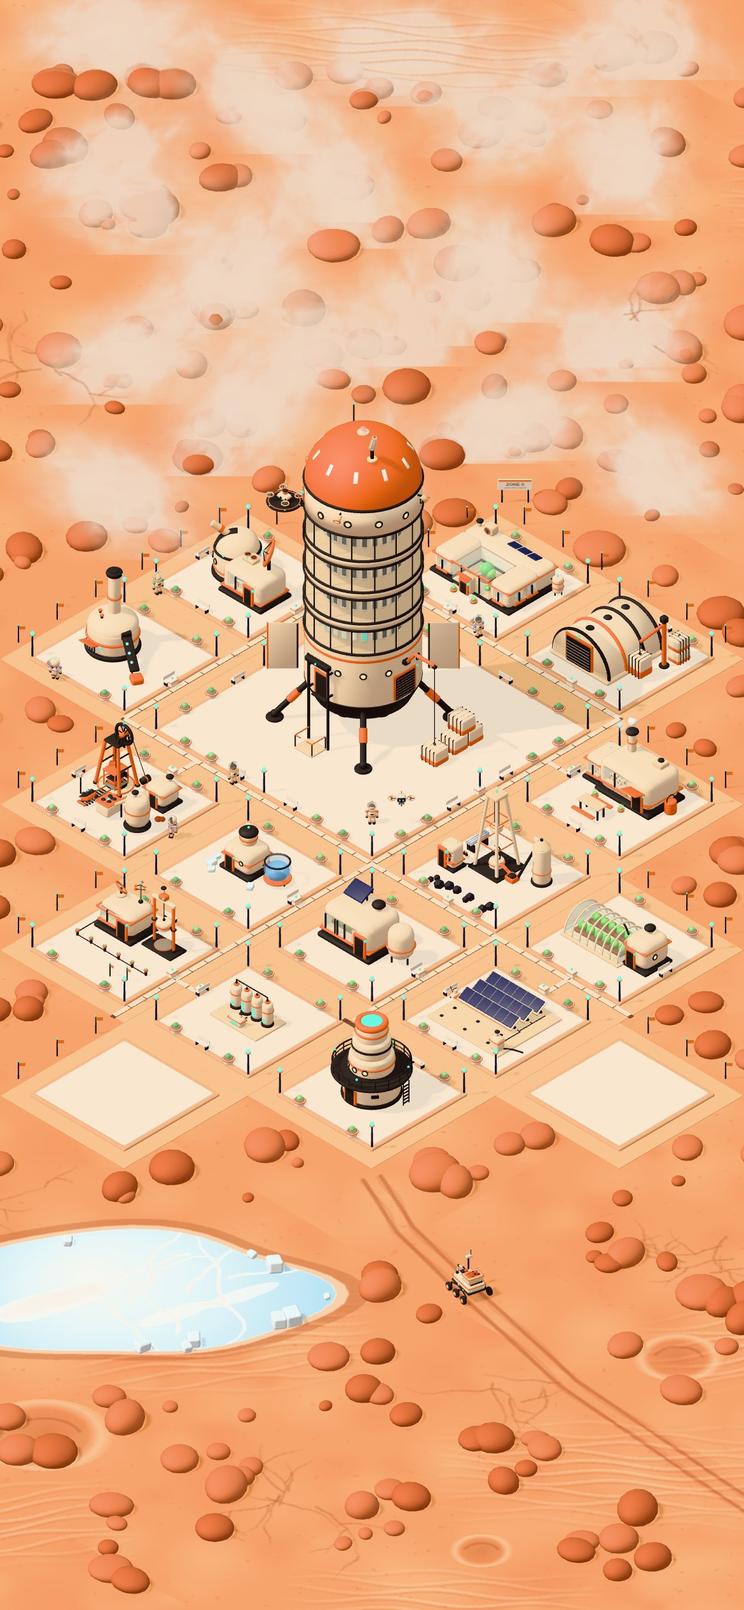
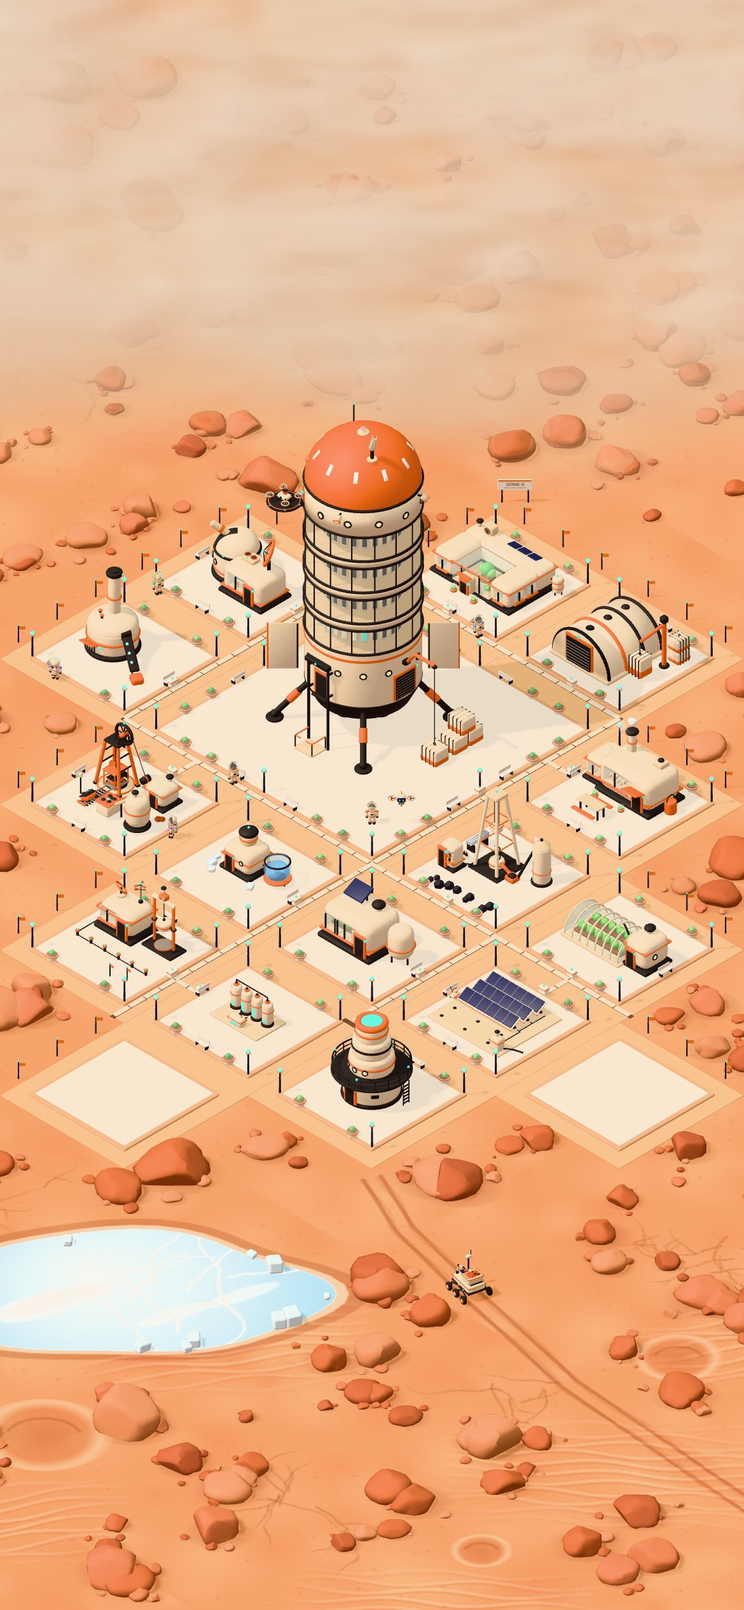
Redo the dust over the closed zone, the stones and the canyon on the map mockup, as Joro asked
Claude-Session: https://claude.ai/code/session_01HQgMkgf4Jd5MamqcQMFrx3

diff --git a/mockup/src/map-ideas.js b/mockup/src/map-ideas.js
@@ -6,9 +6,14 @@
 //   lines   a covered service channel along the streets for the water and the power, with a box at every building
 //   rover   the collector robot on its way back, and the tracks it has worn into the plain
 //   zone    the edge of the closed zone: stakes with flags and a sign
+//   dust    the dust over the closed zone as a blanket of soft layers that lies on the ground (instead of flat pictures)
+//   rocks   the stones of the map as lumpy boulders with flat faces, dust on top, pebbles round the big ones
+// canyon is the land itself, shaped: a floor that winds, walls in steps, the head, the mouth that opens to the plain.
+// canyon0 is the first try, made of stacked blocks; it stays only to be compared with.
 // The random numbers here are their own, so nothing of the map itself moves.
 import * as THREE from 'three';
 import { RoundedBoxGeometry } from 'three/addons/geometries/RoundedBoxGeometry.js';
+import { mergeVertices } from 'three/addons/utils/BufferGeometryUtils.js';
 
 const R2 = Math.SQRT1_2;
 // the canyon's own directions: a across it (to the right of the screen), t along it (towards the camera)
@@ -19,10 +24,40 @@ const box = (w, h, d, mat, r = 0.3, seg = 3) => { const m = new THREE.Mesh(new R
 
 const FLOOR = 52;   // half the width of the canyon floor, metres
 const HEAD = -100;  // where the round head of the canyon begins
-
-// ---------- the canyon: cliffs in layers on both sides and round its head, the land above them ----------
 const TOP = 23;     // how high the land above the canyon lies
-function canyon({ scene, flat, sun }) {
+
+// smooth noise between 0 and 1, and a few octaves of it
+function noise2(seed) {
+  const r = rng(seed), perm = Array.from({ length: 256 }, (_, i) => i), val = new Float32Array(256).map(() => r());
+  for (let i = 255; i > 0; i--) { const k = r() * (i + 1) | 0; [perm[i], perm[k]] = [perm[k], perm[i]]; }
+  const h = (i, j) => val[perm[(perm[i & 255] + j) & 255]];
+  return (x, y) => { const xi = Math.floor(x), yi = Math.floor(y), xf = x - xi, yf = y - yi, u = xf * xf * (3 - 2 * xf), v = yf * yf * (3 - 2 * yf), a = h(xi, yi), b = h(xi + 1, yi), c = h(xi, yi + 1), d = h(xi + 1, yi + 1); return a + (b - a) * u + (c - a) * v + (a - b - c + d) * u * v; };
+}
+const fbm = (n, x, y, oct = 4) => { let s = 0, a = 0.5, f = 1, w = 0; for (let i = 0; i < oct; i++) { s += a * n(x * f, y * f); w += a; a *= 0.5; f *= 2; } return s / w; };
+const clamp = (v, lo = 0, hi = 1) => Math.max(lo, Math.min(hi, v));
+const smooth = v => { v = clamp(v); return v * v * (3 - 2 * v); };
+
+// The canyon: how wide its floor is on each side at a place along it, and how far outside the floor a point lies.
+// straight = the first try (walls 52 m from the middle); otherwise the floor winds, the head is round, the mouth opens.
+function canyonShape(straight) {
+  const n = noise2(17), n2 = noise2(23), RH = 62;
+  const halfW = straight ? () => FLOOR : (t, side) => {
+    let w = 53 + 4.5 * Math.sin(t * 0.031 + (side < 0 ? 0.6 : 2.4)) + 8 * (fbm(n, t * 0.02 + (side < 0 ? 10 : 50), 1.7, 3) - 0.5);
+    if (t > 96) w += (t - 96) * 0.95;            // the mouth: the walls fall back and the canyon opens to the plain
+    return w;
+  };
+  const outside = (a, t) => {
+    const side = a < 0 ? -1 : 1; let d;
+    if (t >= HEAD) d = Math.abs(a) - halfW(t, side);
+    else { const w = halfW(HEAD, side); d = (Math.hypot(Math.abs(a) / w, (HEAD - t) / RH) - 1) * Math.min(w, RH); }
+    return straight ? d : d + (fbm(n2, a * 0.045, t * 0.045, 3) - 0.5) * 9;    // spurs and gullies
+  };
+  return { halfW, outside, n };
+}
+
+
+// ---------- the first try at the canyon (canyon0): cliffs of stacked blocks; kept only to compare with ----------
+function canyonBlocks({ scene, flat, sun }) {
   const r = rng(11), layers = [flat(0xcf7a52), flat(0xe39a6a), flat(0xb9643f), flat(0xd98a5e)], top = flat(0xeaa878);
   let n = 0;
   // a stretch of cliff whose foot is at (a, t), facing (na, nt); its layers end at heights of their own, its top is the land
@@ -77,7 +112,7 @@ function groundSheet({ scene }, draw) {
   m.rotation.x = -Math.PI / 2; m.receiveShadow = true; m.renderOrder = 1;
   const g = new THREE.Group(); g.add(m); g.rotation.y = Math.PI / 4; g.position.y = 0.015; scene.add(g);
 }
-function drawGround(x, r) {
+function drawGround(x, r, shape) {
   // wind ripples: short waves in fields that fade at their edges
   for (const [a0, t0, w, l] of [[-14, 84, 30, 16], [22, 104, 34, 18], [-34, 112, 24, 14], [6, 124, 30, 12], [-46, -18, 10, 30], [47, 14, 9, 34], [46, 66, 10, 26], [-44, -84, 16, 22], [40, -96, 18, 20], [2, -118, 34, 14], [34, 84, 20, 14]]) {
     const turn = (r() - 0.5) * 0.5;
@@ -110,7 +145,7 @@ function drawGround(x, r) {
     x.strokeStyle = 'rgba(150,80,52,.35)'; x.lineWidth = 3; x.beginPath(); x.ellipse(cx, cy + R * 0.06, R * 0.66, R * 0.56, 0, 3.5, 6.0); x.stroke();
   }
   // darker, stony ground under the walls
-  for (let i = 0; i < 2600; i++) { const side = r() < 0.5 ? -1 : 1, a = side * (FLOOR - 8 * r() * r()), t = -130 + r() * 262; x.fillStyle = `rgba(170,92,60,${0.16 + r() * 0.3})`; x.beginPath(); x.ellipse(gx(a), gy(t), 1.5 + r() * 5, 1 + r() * 3, r() * 3, 0, 7); x.fill(); }
+  for (let i = 0; i < 2600; i++) { const side = r() < 0.5 ? -1 : 1, t = -130 + r() * 262, a = side * (shape.halfW(t, side) - 9 * r() * r()); x.fillStyle = `rgba(170,92,60,${0.16 + r() * 0.3})`; x.beginPath(); x.ellipse(gx(a), gy(t), 1.5 + r() * 5, 1 + r() * 3, r() * 3, 0, 7); x.fill(); }
 }
 
 // ---------- the Ice Hollow, at the low end of the canyon ----------
@@ -208,6 +243,156 @@ function zone({ scene, flat, glow, allBlocks, NIGHT }) {
   g.position.set(-24, 0.05, -42.5); g.rotation.y = Math.PI / 4; scene.add(g);
 }
 
+// ---------- the stones: lumpy boulders with flat faces, dust on top, pebbles round the big ones ----------
+// A ball is pushed out and in by noise, then cut by a few planes, which leaves the flat faces a broken rock has; the
+// edges stay soft. The top of every stone is paler (dust lies on it), the underside darker.
+function rockShapes(r) {
+  const shapes = [], n = noise2(61);
+  for (let v = 0; v < 8; v++) {
+    const g = mergeVertices(new THREE.IcosahedronGeometry(1, 3)), p = g.attributes.position, q = new THREE.Vector3();
+    const sx = 0.85 + r() * 0.45, sz = 0.85 + r() * 0.45, sy = 0.55 + r() * 0.32;
+    const cuts = Array.from({ length: 4 + (r() * 4 | 0) }, () => { const c = new THREE.Vector3(r() - 0.5, r() * 0.9 - 0.15, r() - 0.5).normalize(); return [c, 0.6 + r() * 0.28]; });
+    for (let i = 0; i < p.count; i++) {
+      q.fromBufferAttribute(p, i);
+      q.multiplyScalar(1 + 0.42 * (fbm(n, q.x * 1.5 + v * 9 + q.z * 0.8, q.y * 1.5 - q.z * 0.6, 3) - 0.5));
+      for (const [c, d] of cuts) { const over = q.dot(c) - d; if (over > 0) q.addScaledVector(c, -over * 0.93); }
+      q.set(q.x * sx, Math.max(q.y, -0.38) * sy + 0.38 * sy, q.z * sz);
+      p.setXYZ(i, q.x, q.y, q.z);
+    }
+    g.computeVertexNormals();
+    const nor = g.attributes.normal, col = new Float32Array(p.count * 3);
+    for (let i = 0; i < p.count; i++) {
+      const up = nor.getY(i), shade = 0.74 + 0.34 * smooth((up + 0.25) / 1.1), dusty = smooth((up - 0.5) / 0.4) * 0.55;
+      col[i * 3] = shade * (1 + dusty * 0.3); col[i * 3 + 1] = shade * (1 + dusty * 0.42); col[i * 3 + 2] = shade * (1 + dusty * 0.5);
+    }
+    g.setAttribute('color', new THREE.BufferAttribute(col, 3));
+    shapes.push(g);
+  }
+  return shapes;
+}
+function betterRocks({ scene }, shape, atFoot) {
+  const r = rng(73), shapes = rockShapes(r), tones = [0xc8744e, 0xb5613d, 0xd68a5f, 0xa9583a].map(c => new THREE.MeshStandardMaterial({ color: c, roughness: 0.92, vertexColors: true }));
+  const placed = [];
+  const put = (x, z, k) => {
+    const m = new THREE.Mesh(shapes[r() * shapes.length | 0], tones[r() * tones.length | 0]);
+    m.scale.set(k * (0.92 + r() * 0.2), k * (0.85 + r() * 0.35), k * (0.92 + r() * 0.2)); m.position.set(x, -0.07 * k, z); m.rotation.y = r() * 6.3;
+    m.castShadow = m.receiveShadow = true; m.userData.idea = true; scene.add(m); placed.push([...AT(x, z), k]);
+  };
+  const around = (x, z, k) => { for (let i = 0, c = k > 1.05 ? 2 + (r() * 3 | 0) : r() < 0.45 ? 1 : 0; i < c; i++) { const q = r() * 6.3, d = k * (1.05 + r() * 0.9); put(x + Math.cos(q) * d, z + Math.sin(q) * d, k * (0.13 + r() * 0.2)); } };
+  // every stone of the map gives its place to a new one; about a quarter are left out, so the ground breathes
+  for (const m of [...scene.children]) {
+    if (!m.isMesh || m.geometry.type !== 'IcosahedronGeometry' || m.userData.idea || !m.visible) continue;
+    m.visible = false;
+    if (r() < 0.26) continue;
+    const k = m.scale.x * (0.8 + r() * 0.55);
+    put(m.position.x, m.position.z, k); around(m.position.x, m.position.z, k);
+  }
+  // fallen stones under the walls of the canyon
+  if (atFoot) for (let i = 0; i < 150; i++) {
+    const side = r() < 0.5 ? -1 : 1, t = HEAD + r() * 190, [x, z] = P(side * (shape.halfW(t, side) - 2 - r() * r() * 9), t), k = 0.35 + r() * r() * 1.9;
+    put(x, z, k); if (k > 1.2) around(x, z, k);
+  }
+  return placed;
+}
+function drawRockShade(x, placed) {
+  for (const [a, t, k] of placed) {
+    const cx = gx(a + k * 0.25), cy = gy(t + k * 0.12), R = k * 1.7 * PXM, g = x.createRadialGradient(cx, cy, R * 0.25, cx, cy, R);
+    g.addColorStop(0, 'rgba(150,80,52,.34)'); g.addColorStop(1, 'rgba(150,80,52,0)');
+    x.fillStyle = g; x.beginPath(); x.ellipse(cx, cy, R, R * 0.72, 0, 0, 7); x.fill();
+  }
+}
+
+// ---------- the canyon as land: one surface shaped by the canyon's outline ----------
+// The floor is the map's own ground. Outside it the land climbs to the plain above in three terraces: a steep face of
+// rock, then a wide ledge with dust on it, three times. Each face is a layer of rock in its own colour with thin lines
+// of strata; the colour is painted by height, so the layers stay level and sharp whatever the shape of the wall. Spurs
+// and gullies break the walls, the head is round, and past the colony the walls fall back: the canyon opens to the
+// plain where the robot goes. Beside the mine the layers hold what it digs: dark iron ore low down, pale quartz above.
+const RISE = 26, STEPS = 3;
+function strataTexture() {
+  const H = 1024, c = document.createElement('canvas'); c.width = 2; c.height = H;
+  const x = c.getContext('2d'), S = TOP / STEPS, yOf = h => (1 - (h + 1) / (TOP + 2)) * H, r = rng(47);
+  const band = (col, h0, h1, colour) => { x.fillStyle = colour; x.fillRect(col, yOf(h1), 1, yOf(h0) - yOf(h1) + 1); };
+  for (const col of [0, 1]) {
+    band(col, -1, TOP + 1, '#e89a66');
+    ['#c8744e', '#b6603c', '#d0865c'].forEach((rock, k) => {
+      band(col, k * S + 0.45, (k + 1) * S - 0.45, rock);
+      for (let h = k * S + 0.9; h < (k + 1) * S - 0.7; h += 0.9 + r() * 1.3) band(col, h, h + 0.16 + r() * 0.2, r() < 0.5 ? 'rgba(90,40,20,.2)' : 'rgba(255,214,170,.28)');
+    });
+    if (col === 1) { band(col, 2.5, 4.5, '#8a4a36'); band(col, 3.3, 3.55, '#6f3a2a'); band(col, S + 2.2, S + 3.7, '#f1e6ff'); band(col, S + 2.8, S + 2.95, '#d9c8f5'); }
+    for (let k = 1; k <= STEPS; k++) band(col, k * S - 0.45, k * S + 0.45, k === STEPS ? '#eaa878' : '#e6a274');   // the ledges: dust lies on them
+    band(col, TOP + 0.45, TOP + 1, '#eaa878');
+  }
+  const tex = new THREE.CanvasTexture(c); tex.colorSpace = THREE.SRGBColorSpace; tex.generateMipmaps = false; tex.minFilter = tex.magFilter = THREE.LinearFilter;
+  return tex;
+}
+function canyonLand({ scene, sun }, shape) {
+  const n = shape.n, n3 = noise2(31), S = TOP / STEPS, STEP = 1.25, A0 = -170, A1 = 170, T0 = -310, T1 = 268;
+  const nx = Math.round((A1 - A0) / STEP) + 1, nz = Math.round((T1 - T0) / STEP) + 1;
+  const pos = new Float32Array(nx * nz * 3), uv = new Float32Array(nx * nz * 2), hs = new Float32Array(nx * nz);
+  for (let j = 0; j < nz; j++) for (let i = 0; i < nx; i++) {
+    const a = A0 + i * STEP, t = T0 + j * STEP, d = shape.outside(a, t), q = j * nx + i; let h = -0.6;
+    if (d > 0) {
+      const k = STEPS * clamp(d / RISE), fl = Math.floor(k);
+      h = (fl + smooth((k - fl) / 0.3)) * S;                                    // a steep face, then a ledge
+      h += (fbm(n3, a * 0.16, t * 0.16, 2) - 0.5) * 0.7 * smooth(d / 2.5);         // nothing is quite flat
+      if (d > RISE) h = TOP + (fbm(n, a * 0.03 + 40, t * 0.03, 3) - 0.5) * 2.4 * smooth((d - RISE) / 22);
+    }
+    const [x, z] = P(a, t); pos[q * 3] = x; pos[q * 3 + 1] = h; pos[q * 3 + 2] = z; hs[q] = h;
+    // the colour comes from the height (the layers waver a little); by the mine, from the column with the ore
+    uv[q * 2] = a < 0 ? smooth((-a - 30) / 12) * smooth((t + 32) / 8) * smooth((40 - t) / 8) : 0;
+    uv[q * 2 + 1] = d > RISE - 1 ? 0.998 : clamp((h + (fbm(n3, a * 0.07 + 9, t * 0.07, 2) - 0.5) * 0.7 + 1) / (TOP + 2), 0.002, 0.998);   // the plain above is all dust
+  }
+  const idx = [];
+  for (let j = 0; j + 1 < nz; j++) for (let i = 0; i + 1 < nx; i++) {
+    const p = j * nx + i, q = p + nx;
+    if (hs[p] < 0 && hs[p + 1] < 0 && hs[q] < 0 && hs[q + 1] < 0) continue;      // the floor is the map's own ground
+    idx.push(p, q, p + 1, p + 1, q, q + 1);
+  }
+  const g = new THREE.BufferGeometry();
+  g.setAttribute('position', new THREE.BufferAttribute(pos, 3)); g.setAttribute('uv', new THREE.BufferAttribute(uv, 2)); g.setIndex(idx); g.computeVertexNormals();
+  const m = new THREE.Mesh(g, new THREE.MeshStandardMaterial({ map: strataTexture(), roughness: 0.95 }));
+  m.castShadow = m.receiveShadow = true; scene.add(m);
+  // more ground beyond the edge of the map, and the sun's shadow has to see the walls too
+  const far = new THREE.Mesh(new THREE.PlaneGeometry(1600, 1600), new THREE.MeshStandardMaterial({ color: 0xee9f66, roughness: 1 })); far.rotation.x = -Math.PI / 2; far.position.y = -0.03; far.receiveShadow = true; scene.add(far);
+  Object.assign(sun.shadow.camera, { left: -190, right: 190, top: 190, bottom: -190, far: 520 }); sun.shadow.camera.updateProjectionMatrix();
+}
+
+// ---------- the dust over the closed zone: a blanket of soft layers that lies on the ground ----------
+// Each layer is a sheet at its own height with holes of its own; seen from the map's camera the upper ones slide over the
+// lower ones, so the dust has depth, stones stand up out of it, and nothing is cut by the ground as the flat pictures were.
+function dustBlanket({ scene, NIGHT }, shape) {
+  const W = 2 * FLOOR + 40, T0 = -176, T1 = -30, L = T1 - T0, PX = 4, w = W * PX, h = L * PX;
+  // Three thin layers of haze near the ground, then four of billows with real gaps between them. Under each layer of
+  // billows lies its own shade, pushed away from the sun, so the billows look lit from the left like everything else.
+  //   height, strength, gaps (0 = none), colour, seed, pushed by (across, along)
+  const HAZE = [246, 208, 172], LIT = [[252, 226, 198], [254, 234, 210], [255, 240, 222], [255, 246, 232]], SHADE = [218, 164, 126];
+  const layers = [[0.4, 0.3, 0, HAZE, 0, 0, 0], [1.1, 0.28, 0, HAZE, 1, 0, 0], [2.0, 0.26, 0, [249, 216, 184], 2, 0, 0]];
+  [[3.2, 0.52, 0.47], [4.9, 0.5, 0.5], [6.8, 0.46, 0.53], [8.8, 0.38, 0.57]].forEach(([y, st, gaps], k) => {
+    layers.push([y - 0.3, st * 0.78, gaps, SHADE, 3 + k, 2.8, 1.5], [y, st * 1.12, gaps, LIT[k], 3 + k, 0, 0]);
+  });
+  layers.forEach(([y, strength, gaps, col, seed, da, dt], order) => {
+    const n = noise2(100 + seed * 13), c = document.createElement('canvas'); c.width = w; c.height = h;
+    const x = c.getContext('2d'), img = x.createImageData(w, h), d = img.data;
+    for (let j = 0; j < h; j++) for (let i = 0; i < w; i++) {
+      const a = i / PX - W / 2 - da, t = T0 + j / PX - dt, side = a < 0 ? -1 : 1;
+      // where the dust begins: a little beyond the last street, the higher layers further back, the edge wavy
+      const front = -47 - seed * 2.2 + (fbm(n, a * 0.05 + 3, 1.3, 2) - 0.5) * 16;
+      const dens = smooth((front - t) / 15) * smooth((shape.halfW(Math.max(t, HEAD), side) + 5 - Math.abs(a)) / 10) * smooth((t - T0) / 12);
+      if (dens <= 0.002) continue;
+      const f = fbm(n, a * 0.04 + seed * 7.3, t * 0.056 - seed * 3.1, 4);
+      const wisp = clamp((f - 0.42 + dens * 0.95) * 3.6), body = gaps ? clamp((f - gaps) * 5.2 + 0.32) : 0.6 + 0.4 * clamp((f - 0.4) * 3 + 0.5);
+      const o = (j * w + i) * 4;
+      d[o] = col[0]; d[o + 1] = col[1]; d[o + 2] = col[2]; d[o + 3] = 255 * strength * Math.pow(dens, 0.7) * wisp * body;
+    }
+    x.putImageData(img, 0, 0);
+    const tex = new THREE.CanvasTexture(c); tex.colorSpace = THREE.SRGBColorSpace;
+    const m = new THREE.Mesh(new THREE.PlaneGeometry(W, L), new THREE.MeshBasicMaterial({ map: tex, transparent: true, depthWrite: false, color: NIGHT ? 0x56596e : 0xffffff }));
+    m.rotation.x = -Math.PI / 2; m.renderOrder = 4 + order;
+    const g = new THREE.Group(), [px, pz] = P(0, (T0 + T1) / 2); g.add(m); g.rotation.y = Math.PI / 4; g.position.set(px, y, pz); scene.add(g);
+  });
+}
+
 // the map's own stones that would lie on the ice or on the robot's tracks are put away
 function clearStones(scene, ice, tracks) {
   for (const m of scene.children) {
@@ -220,11 +405,20 @@ function clearStones(scene, ice, tracks) {
 
 export async function addIdeas(ctx, on) {
   const has = k => on.has('all') || on.has(k), r = rng(29);
-  if (has('canyon')) canyon(ctx);
-  if (has('ground') || has('ice') || has('rover')) groundSheet(ctx, x => { if (has('ground')) drawGround(x, r); if (has('rover')) drawTracks(x, rng(5)); if (has('ice')) drawIce(x, rng(3)); });
+  const shape = canyonShape(!has('canyon'));
+  if (on.has('canyon0')) canyonBlocks(ctx);
+  if (has('canyon')) canyonLand(ctx, shape);
+  clearStones(ctx.scene, has('ice'), has('rover'));
+  const placed = has('rocks') ? betterRocks(ctx, shape, has('canyon')) : [];
+  if (has('ground') || has('ice') || has('rover') || has('rocks')) groundSheet(ctx, x => {
+    if (has('ground')) drawGround(x, r, shape);
+    if (has('rocks')) drawRockShade(x, placed);
+    if (has('rover')) drawTracks(x, rng(5));
+    if (has('ice')) drawIce(x, rng(3));
+  });
+  if (has('dust')) dustBlanket(ctx, shape);
   if (has('ice')) iceBlocks(ctx, rng(7));
   if (has('lines')) lines(ctx);
   if (has('rover')) await rover(ctx);
   if (has('zone')) zone(ctx);
-  clearStones(ctx.scene, has('ice'), has('rover'));
 }

diff --git a/mockup/map-ideas.html b/mockup/map-ideas.html
@@ -2,8 +2,8 @@
 <html lang="bg"><head><meta charset="utf-8"><meta name="viewport" content="width=390">
 <title>Zerks-X6: идеи за картата</title>
 <!-- The sheet of the ideas for the map (src/map-ideas.js, 14.11.2026): each idea as it is now and as proposed.
-     node shot-ideas.js writes the frames to out/, then node shot-sheet.js map-ideas p1 (and p2) saves the two pages
-     to out/map-ideas-p1.jpg and -p2.jpg (screens/map-ideas-1.jpg, -2.jpg). -->
+     node shot-ideas.js writes the frames to out/, then node shot-sheet.js map-ideas p1 (p2, p3) saves the three pages
+     to out/map-ideas-p1.jpg … -p3.jpg (screens/map-ideas-1.jpg … -3.jpg). -->
 <style>
   @font-face { font-family: Nunito; font-weight: 800; src: url(fonts/nunito-cyrillic-800-normal.woff2) format('woff2'); unicode-range: U+0400-045F; }
   @font-face { font-family: Nunito; font-weight: 800; src: url(fonts/nunito-latin-800-normal.woff2) format('woff2'); unicode-range: U+0000-00FF, U+2013-2014, U+201C-201E; }
@@ -24,25 +24,27 @@
   .foot { font-size: 11px; color: #9a7a62; padding: 10px 12px 14px; line-height: 1.3; }
 </style></head>
 <body>
-<h1>Картата: седем предложения</h1>
+<h1>Картата: девет предложения</h1>
 <div class="lead">Всяко е показано както е сега и както го предлагам, на картата на ниво 10. Нищо не е решено: кажи кои номера остават.</div>
 <div id="list"></div>
 <div class="foot">Всяко предложение се включва отделно (mockup/map.html?ideas=…). В играта в Unity нищо не е сменено.</div>
 <script>
 // [title, text, view, how far down the frame the picture looks (0 top … 1 bottom)]
 const IDEAS = [
-  ['Каньонът', 'Колонията е на дъното на каньон, но сега картата е равнина. Скали на пластове от двете страни и в горния му край, а над тях земята горе. Виждат се, когато отдалечиш или плъзнеш картата.', 'canyon', 0.42],
-  ['Скалата до мината', 'В пластовете до мината личи какво копае тя: светъл пласт кварц и тъмен пласт желязна руда. Сутрин лявата стена хвърля сянка върху дъното.', 'wall', 0.5],
+  ['Каньонът', 'Колонията е на дъното на каньон, но сега картата е равнина. Земята около нея се качва на три тераси до равнината горе; дъното лъкатуши, горният край е заоблен, а надолу стените се раздалечават и каньонът излиза към равнината. Вижда се, когато отдалечиш или плъзнеш картата.', 'canyon', 0.42],
+  ['Скалата до мината', 'Всяка тераса е пласт скала със свой цвят и тънки линии. До мината в пластовете личи какво копае тя: тъмна желязна руда долу и светъл кварц над нея.', 'wall', 0.5],
   ['Земята', 'Голата земя вече не е еднаква: вълнички от вятъра, сухи пукнатини, малки кратери и по-тъмна, камениста ивица под скалите.', 'ground', 0.55],
   ['Ледената падина', 'Ледът, от който помпата тегли вода, се вижда: замръзнало езерце в ниския край на каньона, със скреж по брега. На ниво 13 на брега му идва глиненият изкоп.', 'ice', 0.52],
   ['Сервизният канал', 'Водата и токът вървят в покрит канал покрай улиците, с кутия със светлинка при всяка сграда. Така се вижда как помпата, панелите и батериите стигат до сградите.', 'lines', 0.45],
   ['Роботът и следите му', 'Роботът събирач се връща по своя път, а колелата му са оставили следи от базата към равнината, където търси.', 'rover', 0.5],
-  ['Границата на затворената зона', 'По ръба на построеното има колчета с оранжеви флагчета и табела коя зона следва и как се отваря. Прахът над зоната остава.', 'zone', 0.5],
+  ['Границата на затворената зона', 'По ръба на построеното има колчета с оранжеви флагчета и табела коя зона следва и как се отваря.', 'zone', 0.5],
+  ['Прахът над затворената зона', 'Сега е от плоски картинки, които земята реже с права линия. Вместо тях: одеяло от меки слоеве, което лежи върху земята, с кълба и сянка откъм слънцето; камъните се подават от него.', 'dust', 0.3],
+  ['Камъните', 'Вместо гладки топки: ръбести канари с плоски страни, по-светли отгоре, където лежи прахът, с дребни камъчета около големите и лека сянка в основата.', 'rocks', 0.55],
 ];
 const FRAME = 844 / 390;   // a frame is this many times taller than wide
-const PAGE = location.hash === '#p2' ? [4, 7] : location.hash === '#p1' ? [0, 4] : [0, 7];
-if (PAGE[0]) { document.querySelector('h1').textContent = 'Картата: предложенията 5–7'; document.querySelector('.lead').remove(); }
-else if (PAGE[1] < 7) document.querySelector('.foot').remove();
+const PAGE = location.hash === '#p3' ? [6, 9] : location.hash === '#p2' ? [3, 6] : location.hash === '#p1' ? [0, 3] : [0, 9];
+if (PAGE[0]) { document.querySelector('h1').textContent = `Картата: предложенията ${PAGE[0] + 1}–${PAGE[1]}`; document.querySelector('.lead').remove(); }
+if (PAGE[1] < 9) document.querySelector('.foot').remove();
 document.getElementById('list').innerHTML = IDEAS.map(([t, p, v, y], i) => {
   if (i < PAGE[0] || i >= PAGE[1]) return '';
   const w = 183, h = w * FRAME, top = -(h - 236) * y;

diff --git a/mockup/shot-ideas.js b/mockup/shot-ideas.js
@@ -1,11 +1,13 @@
-// Frames of the ideas for the map (src/map-ideas.js): node shot-ideas.js [night]   (server on 8777) -> out/idea-*.png
+// Frames of the ideas for the map (src/map-ideas.js): node shot-ideas.js [day|night] [only these views, e.g. wall,zone]
+// (server on 8777) -> out/idea-*.png
 // Each view is shot twice, without the ideas and with them.
 const { chromium } = require('playwright');
 const path = require('path');
 // name, [view in metres across the screen, x, z], which ideas
 const VIEWS = [
-  ['whole', [68, 0, 0], 'all'], ['canyon', [150, -6, -6], 'all'], ['wall', [52, -30, 30], 'canyon,ground'], ['ground', [40, 81, 53], 'ground'],
-  ['ice', [46, 34, 68], 'ice'], ['lines', [30, 12, 10], 'lines'], ['rover', [34, 56, 52], 'rover'], ['zone', [22, -27, -41], 'zone'], ['head', [90, -70, -70], 'all'],
+  ['whole', [68, 0, 0], 'all'], ['canyon', [170, -6, -6], 'all'], ['wall', [60, -36, 36], 'canyon,ground,rocks,dust'], ['ground', [40, 81, 53], 'ground'],
+  ['ice', [46, 34, 68], 'ice'], ['lines', [30, 12, 10], 'lines'], ['rover', [34, 56, 52], 'rover'], ['zone', [22, -27, -41], 'zone,dust'], ['head', [100, -70, -70], 'all'],
+  ['dust', [46, -34, -34], 'dust'], ['rocks', [34, 56, 52], 'rocks'],
 ];
 (async () => {
   const night = process.argv[2] === 'night' ? '-night' : '';
@@ -20,7 +22,9 @@ const VIEWS = [
     await page.evaluate(() => { document.getElementById('hud').style.display = 'none'; });
     return (pages[ideas] = page);
   };
+  const only = process.argv[3] ? process.argv[3].split(',') : null;
   for (const [name, aim, ideas] of VIEWS) for (const [tag, set] of [['a', ''], ['b', ideas]]) {
+    if (only && !only.includes(name)) continue;
     const page = await open(set);
     await page.evaluate(a => window.__aim(...a), aim);
     await page.screenshot({ path: path.join(__dirname, 'out', `idea-${name}-${tag}${night}.png`) });

diff --git a/mockup/src/map.js b/mockup/src/map.js
@@ -252,7 +252,8 @@ for (const b of builtBlocks) {
 add(person('Commander'), 2.4, 0.4, 2.4, Math.PI / 4, 1.4).name = 'commander';
 const echo = add(chGlb.echo.clone(true), 4.4, 2.6, 0.6, Math.PI / 4, 2.4); echo.name = 'echo';
 // zone II, which the research opens at level 10, still lies under dust
-for (const b of blocks) if (b.s < -REACH && Math.abs(b.d) <= 2) for (let k = 0; k < 2; k++) dust(b.cx - 4 + rnd() * 8, 2 + rnd() * 3, b.cz - 4 + rnd() * 8, 20 + rnd() * 8, 0xfde6d2, 0.85);
+// (with ?ideas=dust the blanket of map-ideas.js lies there instead; nothing random comes after these, so nothing moves)
+if (!IDEAS.has('dust') && !IDEAS.has('all')) for (const b of blocks) if (b.s < -REACH && Math.abs(b.d) <= 2) for (let k = 0; k < 2; k++) dust(b.cx - 4 + rnd() * 8, 2 + rnd() * 3, b.cz - 4 + rnd() * 8, 20 + rnd() * 8, 0xfde6d2, 0.85);
 
 if (IDEAS.size) await addIdeas({ scene, flat, glow, NIGHT, gltf, sun, blocks: builtBlocks, allBlocks: blocks }, IDEAS);
 

diff --git a/docs/notes.md b/docs/notes.md
@@ -11,7 +11,7 @@
 - **Следваща стъпка:** ниво 26, после останалите нива на глава 3 (до 30), едно по едно. На 12.11.2026 са одобрени ниво 21 „Зеленият пояс“ (почвата я правят лишеите и мъхът по камъка, без нова сграда; ключовите сгради на глава 3 са първата топилня и цехът за мед), ниво 22 „Обшивката“ (корпусът на четири етапа, втората топилня), ниво 23 „Водата се връща“ (пречиствателната станция, преместена от глава 4), ниво 24 „Руда за корпуса“ (мината на ниво 20 и петото място, етап 2 на корпуса) и ниво 25 „Тревата“ (хидросеене и полевата станция с агроном). Кулата идва по-късно в главата. Планът на главите 3–10 (предложение в concept.md) още чака одобрение. Ниво 20 „Корпусът“ е одобрено на 11.11.2026 и с него глава 2 е цялата в levels.md. На 11.11.2026 Жоро мина проверката на логиката и реши: атмосферата по стъпки на нивата 13, 16, 19… (40% точно на ниво 40); нивите и горите на ниво 40, животните в глава 5; спасеният от експедицията заема място в главата; без свободно местене, а университет с размяна; будиш с „Събуди“; кои сгради нямат работно място; панелите са един парцел; подобренията, които отключват нещо ново, искат Ковчега на ниво; нощем −5%; кристалите и луната отпадат; всички домове се печатат; роботът събирач вместо капсулите; ниво 19 „Мед“. Всичко е записано в levels.md, концепцията, хода на играта, визията и предаването и на 11.11.2026 е качено в main и в документите в Claude. Редът: първо всички нива до 100, по глави, после настройваме колко трае играта.
 - **Unity (Саламен, 13.11.2026):** играта ще се прави с Unity 6 на Mac-а на Саламен, с Claude Code там; стъпките са в docs/unity-plan.md (проектът в unity/Zerk-X6/ в същото репо). Жоро го потвърди на 13.11.2026. Проектът е настроен на Mac-а на 13.11.2026 (Unity 6.6, Git LFS, пакетите Pipeline, glTFast и Draco). Същата вечер по молба на Саламен е направена цялата глава 1 в Unity, от кацането до ниво 11 (етапите 1–4 от плана за кода): играе се в Unity на Mac-а, с панел DEV за пробата; какво има и кои числа са предложение е в docs/unity-plan.md („Глава 1 в Unity“). Липсват моделите на хората (прави ги Жоро), звукът и пробата на iPhone (Xcode след обновяването на macOS).
 - **Кодът досега (Саламен, 13.11.2026):** преди Unity бяха направени числата на сградите и нивата 1–25 (docs/balance, баланс 0.1, одобрен от Жоро на 13.11.2026; пробното темпо е ×60, глава 1 за около 18 минути) и етап 1 на three.js ([Zerks-X6 Stage 1](https://claude.ai/artifact/KRF6sLedzZKpDQKucnoWrd), колонията на ниво 10 в изометрично 3D). Етап 1 остава като образец за етап 1 в Unity; числата важат и в Unity.
-- **Видът на играта (Жоро, 14.11.2026):** оправяме го едно по едно, в този ред: космонавтите и ЕХО, менютата, картата и средата, материалите. Космонавтите и ЕХО са решени на 14.11.2026 („А и ЕХО 2“): скафандърът със стъкления шлем и ЕХО с двете перки; моделите за играта са в art/3d/characters (colonist.glb, echo.glb, looks.json) и вече са на картата на ниво 10 в макета. Менютата са нарисувани като предложение в приятелския вид (11 кадъра в mockup/screens, menu-01 … menu-11, от mockup/menus.html) (Жоро още не е казал нищо за тях). За картата и детайлите ѝ има седем предложения, всяко показано „сега / предложение“ (mockup/screens/map-ideas-1 и -2): каньонът, скалата до мината, земята, Ледената падина, сервизният канал, роботът със следите и границата на затворената зона; чакат кои номера избира Жоро. После идват материалите. Моделите и кадрите се правят в облачния чат, а в Unity ги слага чатът на Саламен на Mac-а (какво да смени е в docs/unity-plan.md, „Хората и ЕХО“).
+- **Видът на играта (Жоро, 14.11.2026):** оправяме го едно по едно, в този ред: космонавтите и ЕХО, менютата, картата и средата, материалите. Космонавтите и ЕХО са решени на 14.11.2026 („А и ЕХО 2“): скафандърът със стъкления шлем и ЕХО с двете перки; моделите за играта са в art/3d/characters (colonist.glb, echo.glb, looks.json) и вече са на картата на ниво 10 в макета. Менютата са нарисувани като предложение в приятелския вид (11 кадъра в mockup/screens, menu-01 … menu-11, от mockup/menus.html) (Жоро още не е казал нищо за тях). За картата и детайлите ѝ има девет предложения, всяко показано „сега / предложение“ (mockup/screens/map-ideas-1, -2 и -3): каньонът, скалата до мината, земята, Ледената падина, сервизният канал, роботът със следите, границата на затворената зона, прахът над нея и камъните. Жоро: „Харесва ми“ (14.11.2026), без да казва номера; по негово искане прахът, камъните и каньонът са направени наново. Още са само в макета и се включват отделно; чака се думата му, за да станат постоянни на картата. После идват материалите. Моделите и кадрите се правят в облачния чат, а в Unity ги слага чатът на Саламен на Mac-а (какво да смени е в docs/unity-plan.md, „Хората и ЕХО“).
 - **Как работим (11.11.2026):** при всяко „обнови чат“ и „актуализирай и качи“ Claude първо проверява логиката (levels.md срещу концепцията, хода на играта и решенията) и пита за всяко несъответствие. При всяко качване хронологията на чата се записва в docs/chat-log.md, за да продължи другият чат по същата логика.
 - **Пример за 100 нива:** docs/example/ (07.11.2026, по молба на Пацо): пример за всички глави и нивата 1–100 с колонистите (Word и .md) и таблица за икономиката до ниво 100 (Excel). Само за четене и за идеи; не е решение и не е вписан в levels.md, концепцията или идеите.
 - **Ходът на играта:** [Zerks-X6: ход на играта](https://claude.ai/artifact/UHthtpLjANB3bH1q85vqbP) (версия 1.7): главите 1 и 2 и нивата 21–25 следват docs/levels.md.
@@ -186,6 +186,7 @@
 
 | Дата | Промяна | Статус |
 | --- | --- | --- |
+| 14.11.2026 | Жоро за предложенията за картата: „Харесва ми, сега искам първо да оправим замъглената част, да е по-добре направена, след това камъните да са по-добре и накрая самия каньон да е по-адекватно направен.“ Направено в този ред, в макета (mockup/src/map-ideas.js): 1) прахът над затворената зона вече не е от плоски картинки, които земята режеше с права линия, а одеяло от седем меки слоя на различна височина (три слоя мараня до земята и четири с кълба и пролуки, всеки със сянка откъм слънцето); лежи върху земята, предният му ръб е вълнист и камъните се подават от него; 2) камъните вече не са гладки топки, а ръбести канари с плоски страни (осем форми), по-светли отгоре, където лежи прахът, с дребни камъчета около големите и лека сянка в основата; около четвърт от старите са махнати, за да диша земята; 3) каньонът е направен наново като релеф вместо от наредени блокове: земята около дъното се качва до равнината горе на три тераси (стръмна скала, после широк праг с прах), пластовете са оцветени по височина и остават равни и ясни, дъното лъкатуши, стените имат издатини и улеи, горният край е заоблен, а надолу стените се раздалечават и каньонът излиза към равнината, накъдето водят следите на робота; до мината в пластовете са желязната руда и кварцът. Листът с предложенията вече е в три страници с девет точки (map-ideas-1 … -3; 8 е прахът, 9 са камъните), кадрите map-ideas-all, -canyon и -head са преснимани. Всичко още се включва отделно и не е постоянно на картата; в Unity нищо не е сменено. Не е качено в main | В работа |
 | 14.11.2026 | Жоро: „Сега да променим картата, детайлите и, предложи някакви неща.“ Седем предложения за картата на ниво 10, всяко нарисувано в макета и показано както е сега и както се предлага (mockup/screens/map-ideas-1.jpg и -2.jpg; всички наведнъж в map-ideas-all, -canyon и -head): 1 каньонът (скали на пластове от двете страни и в горния край, земята над тях; виждат се при отдалечаване и плъзгане, защото в обичайния изглед екранът е по-тесен от дъното на каньона); 2 скалата до мината с пласт кварц и пласт желязна руда и сутрешната сянка на стената; 3 земята: вълнички от вятъра, сухи пукнатини, малки кратери, каменлива ивица под скалите; 4 Ледената падина в ниския край на каньона, където на ниво 13 идва глиненият изкоп; 5 покрит сервизен канал за водата и тока покрай улиците с кутия при всяка сграда; 6 роботът събирач на връщане и следите от колелата му; 7 колчета с флагчета и табела по границата на затворената зона. Всяко се включва отделно (mockup/src/map-ideas.js, map.html?ideas=…), така че избраните остават, а другите се махат. Нищо не е решено и нищо не е сменено в Unity. Не е качено в main | В работа |
 | 14.11.2026 | Менютата, второто от вида на играта (Жоро: „менюта, мапа, материали, космонавти, енвайърмент… едно по едно“). Предложение в приятелския вид от макета, 11 кадъра в размер на iPhone (mockup/screens/menu-01-main … menu-11-away, от mockup/menus.html): главният екран с това, което стои над сградите; „Строй“ с трите групи (готово за строеж, по-късно като черни силуети с катинарче и ниво, построено); изборът на място с „Build here“ и ЕХО, който казва защо там; панелът на сграда (какво дава сега и на следващото ниво, какво отключват следващите нива, кой работи и какво копае, подобрението долу); Ковчегът със списъка за следващото ниво; рисърчът с двата слота и клоновете; колонистите с портрети от новия модел, досието и събуждането; целите; връщането в играта. Горе ресурсите са на два реда: карбон, вода, камък и храна, а под тях кварц, желязо, силиций и токът с батерията. Кадрите са в началото на ниво 11, за да има какво да се строи, върху картата на ниво 10; числата са примерни. За тях са направени картинки на сградите и портрети на хората (mockup/ui/thumbs). Не са нарисувани още: картата на зоните, прозорчетата за въздуха, тока и ресурсите, сцената при ново ниво, скицата и настройките. В Unity нищо не е сменено. Чака прегледа на Жоро. Не е качено в main | В работа |
 | 14.11.2026 | Жоро избра: „А и ЕХО 2“. Космонавтите са идея А (стъкленият шлем), ЕХО е идея 2 (двете перки); записано е в решенията и в CLAUDE.md. Довършени са моделите за играта в art/3d/characters: colonist.glb (един модел за Командира и всички колонисти, с отделни ръце и крака; цветът на професията, кожата, косата, прическата и брадата се сменят), echo.glb (тялото, двете перки и двете очи са отделни части) и looks.json с цветовете на професиите и вида на Командира и 15-те назовани колонисти (предложение). Олекотени са: човек около 4 900 триъгълника вместо 12 900, ЕХО 3 900 вместо 9 300; файловете са 42 и 23 KB. Проверени са отпред, отзад, отстрани и отгоре (people.jpg, echo-views.jpg) и са сложени на картата на ниво 10 в макета вместо капсулите: Командирът с ЕХО на парцела на Ковчега и петима колонисти навън; кадрите в mockup/screens са преснимани, с три нови (map-lvl10-commander, -commander-night, -colonist). Какво да се смени в Unity е в docs/unity-plan.md („Хората и ЕХО“); там не е пробвано, защото тук няма Mac. Следват менютата. Не е качено в main | Готово |

diff --git a/mockup/README.md b/mockup/README.md
@@ -23,7 +23,7 @@
 | `map-lvl10-home.jpg`, `map-lvl10-home-night.jpg` | Домът на колонистите на ниво 10 отблизо, денем и нощем: двете крила с по-една стая за двама зад всеки прозорец и стъклената зимна градина между тях |
 | `map-lvl10-ark.jpg`, `map-lvl10-ark-night.jpg` | Ковчегът отблизо, денем и нощем: 100-те пода на четири стъклени етажа (десет отворени, един свети), асансьорът, кранът с контейнерите, радиаторите, балконът с дрона и оранжевият връх |
 | `map-lvl10-commander.jpg`, `map-lvl10-commander-night.jpg`, `map-lvl10-colonist.jpg` | Хората на картата отблизо (14.11.2026): Командирът с ЕХО на парцела на Ковчега, денем и нощем, и колонист до сградата си. Хората са избраният модел със стъкления шлем, а ЕХО е този с двете перки (`art/3d/characters`); от същия ден те са и на останалите кадри на картата вместо старите капсули |
-| `map-ideas-1.jpg`, `map-ideas-2.jpg` | **Седем предложения за картата и детайлите ѝ** (14.11.2026, нищо не е решено), всяко както е сега и както се предлага: 1 каньонът със скалите на пластове, 2 скалата до мината с пласта кварц и пласта желязна руда, 3 земята (вълнички, пукнатини, кратери), 4 Ледената падина, 5 сервизният канал за водата и тока покрай улиците, 6 роботът събирач и следите му, 7 колчетата и табелата по границата на затворената зона |
+| `map-ideas-1.jpg`, `map-ideas-2.jpg`, `map-ideas-3.jpg` | **Девет предложения за картата и детайлите ѝ** (14.11.2026; Жоро: „Харесва ми“, без да казва номера), всяко както е сега и както се предлага: 1 каньонът (земята се качва на три тераси до равнината горе, дъното лъкатуши, надолу каньонът излиза към равнината), 2 скалата до мината с пласта желязна руда и пласта кварц, 3 земята (вълнички, пукнатини, кратери), 4 Ледената падина, 5 сервизният канал за водата и тока покрай улиците, 6 роботът събирач и следите му, 7 колчетата и табелата по границата на затворената зона, 8 прахът над затворената зона като одеяло от меки слоеве, 9 камъните като ръбести канари с прах отгоре. 8 и 9 и новият каньон са поправките, които Жоро поиска след първия вариант |
 | `map-ideas-all.jpg`, `map-ideas-canyon.jpg`, `map-ideas-head.jpg` | Картата с всички предложения наведнъж: в обичайния изглед, отдалечена, за да се види целият каньон, и горният край на каньона |
 | `menu-01-main.jpg` … `menu-11-away.jpg` | **Менютата в приятелския вид** (предложение, 14.11.2026, `menus.html`), в началото на ниво 11, върху картата на ниво 10: главният екран с това, което стои над сградите (за прибиране, подобрение, „Ready“); „Строй“ (готово за строеж, по-късно като черни силуети с катинарче и ниво, построено); изборът на място с „Build here“; панелът на сграда (мината); Ковчегът с изискванията за следващото ниво; рисърчът с двата слота и клоновете; колонистите; досието; събуждането; целите; връщането в играта. Числата са примерни, в размера на `docs/balance` |
 | `build-clip.mp4`, `build-storyboard.jpg` | Строежът на сграда (предложение, 06.11.2026, `docs/build-sequence.md`): Build → менюто → мястото с ЕХО → Build here → дронът излита от Ковчега, премерва парцела, очертава контура, играта показва плана на слоеве, дронът печата оранжерията слой по слой и опъва фолиото; около 20 s, без звук |
@@ -71,7 +71,7 @@ npm run shots
 | `src/textures.js` | Текстурите, генерирани с код: панели с фуги, метал, соларни клетки, фасади |
 | `fetch-assets.sh` | Тегли моделите на Kenney и текстурите от Poly Haven в `models/` и `ph/` |
 | `shot.js` | Снима състоянията в `out/` |
-| `src/map-ideas.js`, `shot-ideas.js`, `map-ideas.html`, `shot-sheet.js` | Предложенията за картата: всяко се включва отделно с `map.html?ideas=canyon,ground,ice,lines,rover,zone#lvl10` (или `ideas=all`); `node shot-ideas.js` снима всеки изглед без тях и с тях, `node shot-sheet.js map-ideas p1` (и `p2`) прави двете страници на листа |
+| `src/map-ideas.js`, `shot-ideas.js`, `map-ideas.html`, `shot-sheet.js` | Предложенията за картата: всяко се включва отделно с `map.html?ideas=canyon,ground,ice,lines,rover,zone#lvl10` (или `ideas=all`); още `dust` и `rocks`; `canyon0` е първият каньон от блокове, пазен само за сравнение. `node shot-ideas.js` снима всеки изглед без тях и с тях, `node shot-sheet.js map-ideas p1` (`p2`, `p3`) прави трите страници на листа |
 | `menus.html` | Менютата: всяко състояние е един екран (`#main`, `#build`, `#place`, `#building`, `#ark`, `#research`, `#colonists`, `#dossier`, `#wake`, `#goals`, `#away`); `node shot.js 3 main,build,… menus.html` |
 | `thumbs.html`, `src/thumbs.js`, `shot-thumbs.js` | Картинките за менютата в `ui/thumbs` (WebP на прозрачен фон): всяка сграда от камерата на картата и портрет и цял ръст на всеки човек от `art/3d/characters` |
 | `shot-bg.js` | Фоновете на менютата (`ui/bg-*.jpg`, картата без интерфейса) и къде е всяка сграда на тях (`ui/anchors.json`) |
